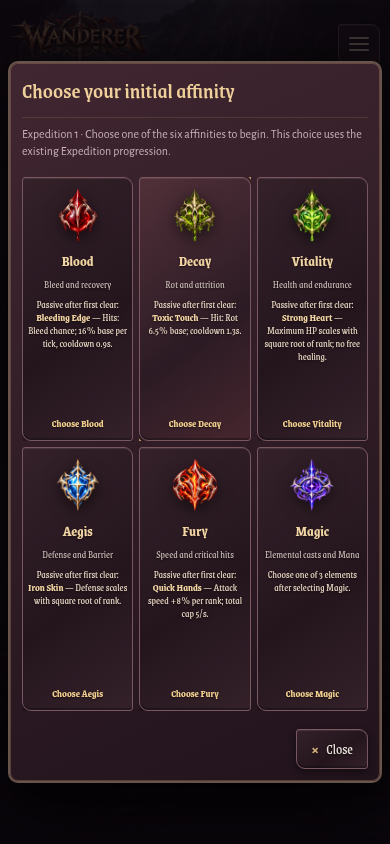
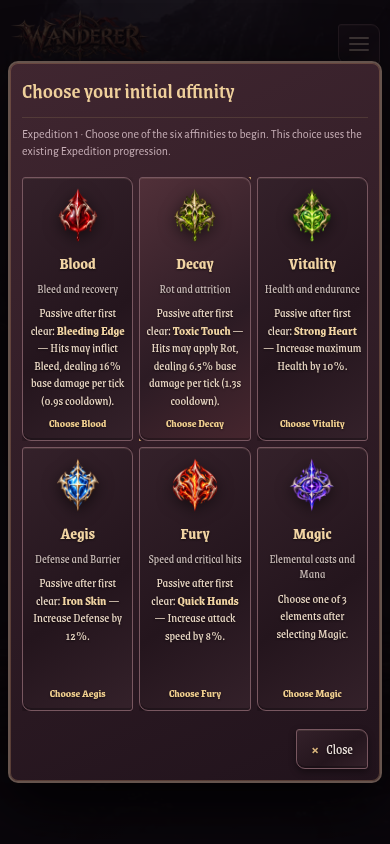
Clarify affinity passive descriptions

diff --git a/online/v012-ui4.css b/online/v012-ui4.css
@@ -107,17 +107,17 @@
 .phase3IntegratedPreview .phase3InitialAffinityDialog .phase3AffinityChoice{min-width:0;border:0;border-radius:0;background:transparent}
 .phase3IntegratedPreview .phase3InitialAffinityDialog .phase3AffinityChoice>.phase1DraftCard{display:flex;align-items:center;justify-content:flex-start;box-sizing:border-box;width:100%;height:290px;min-width:0;padding:12px 10px;gap:9px;text-align:center}
 .phase3IntegratedPreview .phase3InitialAffinityDialog .phase3AffinityChoice .affinityFamilyIcon{width:min(82px,100%);height:82px;object-fit:contain;flex:none;filter:drop-shadow(0 4px 8px #0009)}
-.phase3IntegratedPreview .phase3InitialAffinityDialog .phase3AffinityChoice strong{font-size:clamp(14px,1.25vw,19px)}
-.phase3IntegratedPreview .phase3AffinityIdentity{font-size:12px;color:var(--ui4-muted);line-height:1.3}
-.phase3IntegratedPreview .phase3AffinityPassive{flex:1;min-height:0;max-height:100%;overflow-y:auto;overscroll-behavior:contain;scrollbar-width:thin;font-size:11px;line-height:1.4;color:#e7d5c2}
+.phase3IntegratedPreview .phase3InitialAffinityDialog .phase3AffinityChoice strong{font-size:clamp(17px,1.5vw,21px)}
+.phase3IntegratedPreview .phase3AffinityIdentity{font-size:15px;color:var(--ui4-muted);line-height:1.35}
+.phase3IntegratedPreview .phase3AffinityPassive{flex:1;min-height:0;max-height:100%;overflow-y:auto;overscroll-behavior:contain;scrollbar-width:thin;font-size:14px;line-height:1.45;color:#e7d5c2}
 .phase3IntegratedPreview .phase3AffinityPassive b{color:#f1d4a3;font-weight:700}
 .phase3IntegratedPreview .phase3AffinityAction{margin-top:auto}
 .phase3IntegratedPreview dialog.phase3MagicElementDialog{width:min(760px,calc(100vw - 24px));max-width:none;padding:clamp(14px,2vw,24px)}
 .phase3IntegratedPreview .phase3MagicElementChoices{display:grid;grid-template-columns:repeat(3,minmax(0,1fr));gap:10px;margin-top:14px}
 .phase3IntegratedPreview .phase3MagicElementChoice{display:flex;align-items:center;box-sizing:border-box;width:100%;height:190px;min-width:0;padding:14px 10px;gap:10px;text-align:center}
 .phase3IntegratedPreview .phase3MagicElementChoice .magicChoiceIcon{width:76px;height:76px;filter:drop-shadow(0 4px 8px #0009)}
-.phase3IntegratedPreview .phase3MagicElementChoice strong{font-size:18px;color:#f1d4a3}
-.phase3IntegratedPreview .phase3MagicElementChoice span{font-size:12px;line-height:1.4;color:var(--ui4-muted)}
+.phase3IntegratedPreview .phase3MagicElementChoice strong{font-size:19px;color:#f1d4a3}
+.phase3IntegratedPreview .phase3MagicElementChoice span{font-size:14px;line-height:1.4;color:var(--ui4-muted)}
 .phase3IntegratedPreview .phase3AffinityPending{max-width:760px;margin:clamp(24px,8vh,100px) auto;text-align:center}
 .phase3IntegratedPreview .phase3AffinityPending h1{color:var(--gothic-ivory);font:500 clamp(26px,3vw,42px)/1.1 var(--font-display)}
 .phase3IntegratedPreview .phase3AffinityPending .primary{min-width:min(100%,280px)}
@@ -163,18 +163,18 @@
 @media(max-width:700px){
  .phase3IntegratedPreview dialog.phase3InitialAffinityDialog{width:calc(100vw - 16px);max-height:calc(100dvh - 20px);padding:12px}
  .phase3IntegratedPreview .phase3InitialAffinityDialog .phase3AffinityChoices{grid-template-columns:repeat(3,minmax(0,1fr));gap:6px}
- .phase3IntegratedPreview .phase3InitialAffinityDialog .phase3AffinityChoice>.phase1DraftCard{height:264px;padding:8px 5px;gap:7px;font-size:11px}
+ .phase3IntegratedPreview .phase3InitialAffinityDialog .phase3AffinityChoice>.phase1DraftCard{height:264px;padding:8px 5px;gap:7px;font-size:12px}
  .phase3IntegratedPreview .phase3InitialAffinityDialog .phase3AffinityChoice .affinityFamilyIcon{width:58px;height:58px}
- .phase3IntegratedPreview .phase3InitialAffinityDialog .phase3AffinityChoice strong{font-size:14px}
- .phase3IntegratedPreview .phase3AffinityIdentity{font-size:10px}
- .phase3IntegratedPreview .phase3AffinityPassive{font-size:10px;line-height:1.3}
- .phase3IntegratedPreview .phase3AffinityAction{font-size:10px}
+ .phase3IntegratedPreview .phase3InitialAffinityDialog .phase3AffinityChoice strong{font-size:16px}
+ .phase3IntegratedPreview .phase3AffinityIdentity{font-size:12px;line-height:1.3}
+ .phase3IntegratedPreview .phase3AffinityPassive{font-size:12.5px;line-height:1.4}
+ .phase3IntegratedPreview .phase3AffinityAction{font-size:11px}
  .phase3IntegratedPreview dialog.phase3MagicElementDialog{width:calc(100vw - 16px);max-height:calc(100dvh - 20px);padding:12px}
  .phase3IntegratedPreview .phase3MagicElementChoices{gap:6px;margin-top:10px}
  .phase3IntegratedPreview .phase3MagicElementChoice{height:160px;padding:8px 4px;gap:7px;font-size:11px}
  .phase3IntegratedPreview .phase3MagicElementChoice .magicChoiceIcon{width:54px;height:54px}
- .phase3IntegratedPreview .phase3MagicElementChoice strong{font-size:14px}
- .phase3IntegratedPreview .phase3MagicElementChoice span{font-size:10px;line-height:1.3}
+ .phase3IntegratedPreview .phase3MagicElementChoice strong{font-size:16px}
+ .phase3IntegratedPreview .phase3MagicElementChoice span{font-size:12px;line-height:1.35}
 }
 @media(prefers-reduced-motion:reduce){
  .phase3IntegratedPreview button.primary:not(.tiny):active{transform:none}

diff --git a/index.html b/index.html
@@ -1260,7 +1260,8 @@ function phase3AffinityChoiceMarkup(family){
  const names=WandererV012Expedition.FAMILY_NAMES,starter=family==='magic'?['kindling','deep_winter','overcharge']:[WandererV012Buildcraft.initialId(family)];
  const passives=starter.map(id=>WandererV012Buildcraft.CATALOG.find(p=>p.id===id)).filter(Boolean);
  const identity={blood:'Bleed and recovery',decay:'Rot and attrition',vitality:'Health and endurance',aegis:'Defense and Barrier',fury:'Speed and critical hits',magic:'Elemental casts and Mana'}[family];
- const passiveText=passives.map(p=>'<b>'+esc(p.name)+'</b> — '+esc(p.description.replace(/\bICD\b/gi,'cooldown'))).join(' · ');
+ const initialDescriptions={blood:'Hits may inflict Bleed, dealing 16% base damage per tick (0.9s cooldown).',decay:'Hits may apply Rot, dealing 6.5% base damage per tick (1.3s cooldown).',vitality:'Increase maximum Health by 10%.',aegis:'Increase Defense by 12%.',fury:'Increase attack speed by 8%.',magic:'Choose one element: Fire, Frost, or Lightning.'};
+ const passiveText=passives.map(p=>'<b>'+esc(p.name)+'</b> — '+esc(initialDescriptions[family]||p.description.replace(/\bICD\b/gi,'cooldown'))).join(' · ');
  return '<article class="phase3AffinityChoice"><button type="button" class="phase1DraftCard" data-phase2-initial="'+family+'">'+phase2FamilyIcon(family)+'<strong>'+esc(names[family])+'</strong><span class="phase3AffinityIdentity">'+identity+'</span><span class="phase3AffinityPassive">'+(family==='magic'?'Choose one of 3 elements after selecting Magic.':'Passive after first clear: '+passiveText)+'</span><b class="phase3AffinityAction">Choose '+esc(names[family])+'</b></button></article>';
 }
 function phase3OpenMagicElementDialog(onChoose){
